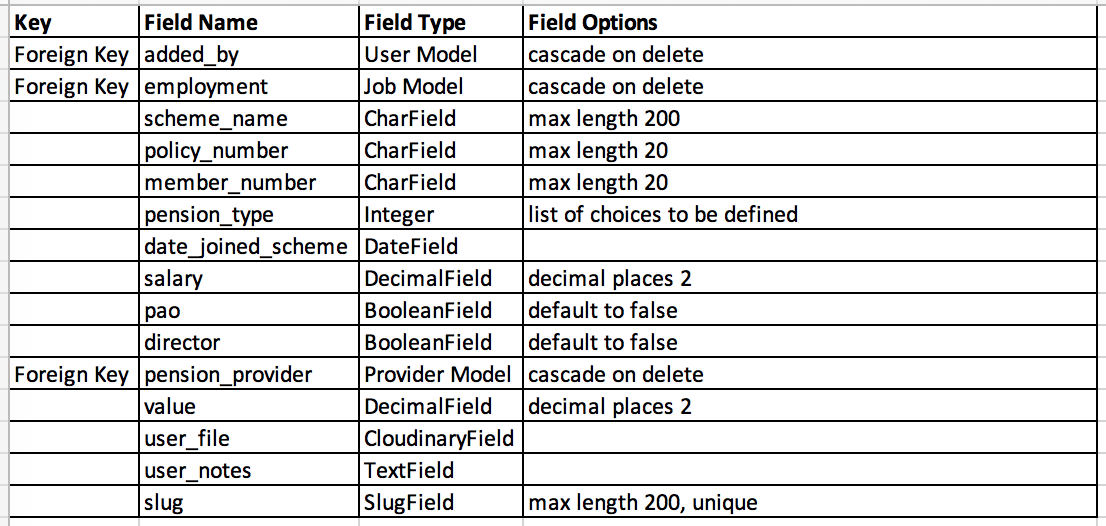
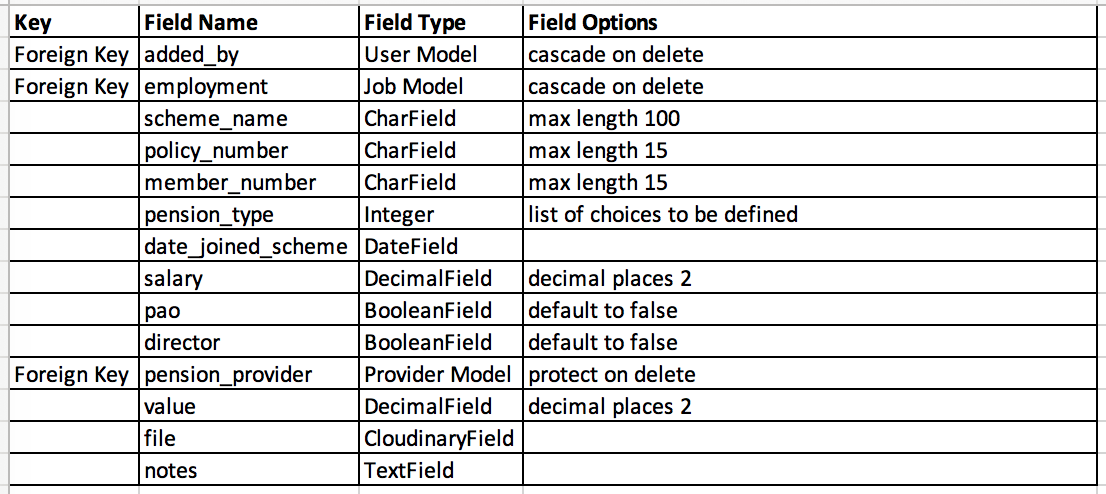
docs: update Database Schema section of README.md and add updated erd .png file, small update to Project structure section

Changed region(s): [[0.0, 0.0, 1.0, 1.0]]

diff --git a/README.md b/README.md
@@ -293,7 +293,7 @@ The content requirements for this project mainly consists of deciding what infor
 
 ### Database Schema
 ---
-The dataset for this project consists of the information entered by each registered user on their employments and attached pensions.
+The dataset for this project consists of the information entered by each registered user on their employments and attached pensions; along with the dataset of the pension providers that is maintained by the website owner.
 
 Some of the factors taken into account when creating the data model:
 - a user can only view details of the Job and Pension records they entered, they cannot view records of other users, therefore:
@@ -302,12 +302,13 @@ Some of the factors taken into account when creating the data model:
 - Each Pension record must have an associated employment/job, and can only be linked to one employment/job in this iteration of the project (later iterations may include functionality to add more than one employment to a pension, see [Future Features](#future-features)). An Employment/Job can be linked to more than one pension
   * Job/Employment is a Foreign Key (one to many relationship) in the Pension model.
 - The Pension records will be displayed as a series of cards in the My Pensions page, with summary details on the card. The user can click on View Details to view the complete details. 
-  * Therefore a slug will be used to generate the url when viewing the full detail of a pension record
+  * The automatically generated id (primary key) will be used to generate the url when viewing the full detail of a pension record
 - The user can upload a file as part of a Pension record. Since the live project will be deployed on Heroku which has ephemeral file storage, these files will be hosted on Cloudinary for persistent file storage
   * CloudinaryField will be used in the Pension model to store the url for the hosted file 
 - Pension provider name will be recorded as part of each Pension record. 
   * To ensure consistency, and to allow the pension provider website to be pre-populated instead of the user having to enter it on the Add Pension form, the list of pension providers and their associated website url will be contained in a separate PensionProvider table managed by the website owner
   * Pension provider name will be a Foreign Key (one to many relationship) in the Pension model
+  * Pension provider records will have a status of Active or Not Active, when adding a new pension record or editing an existing one, only the Active pension providers can be seleted. This to cater for pension providers that cease trading, but the book of business will then go to another provider - it is important for the users to keep up to date with this, so that they know who the current provider is when it comes to taking their benefits. 
 * All custom models will use the Django default primary key of auto-incrementing id
 
 The data is organised using the following models:
@@ -323,17 +324,21 @@ The data is organised using the following models:
   * deleted via the Delete record modal accessed using the Delete button
   * records are viewed on the My Jobs page
   * some details from the employment record are used when viewing the Pension details on My Pensions page
+  * Employer name must be unique for that user (so that it is clear which Employment the user is choosing when they select the Employment from the dropdown list when adding the Pension)
 - Pension
 ![diagram for Pension table](docs/erd/pension.png)
   * records are created, edited and deleted by a registered user from the frontend
   * created via the Add Pension button and form from My Pensions page
   * edited via the Edit Pension form accessed using the Edit button
   * deleted via the Delete record modal accessed using the Delete button
+  * deleting a Job record will delete any attached Pension records
+  * a Pension Provider record can't be deleted if there are Pension records attached
   * records are viewed on the My Pensions page
 - PensionProvider
 ![diagram for PensionProvider table](docs/erd/provider.png)
   * records are created, edited and deleted via the Admin panel by the website owner and cannot be edited by a regular user
   * data in this model is viewed as part of the Pension view
+  * when a user edits or adds a pension, they can select from the active Pension Provider records when choosing the Pension Provider for that pension record.
 
 ## Project structure
 ---
@@ -348,7 +353,7 @@ The project is developed using the Django framework and will be split into three
   * To handle creating, viewing, editing and deleting pensions by a registered user. 
   * This app will use the Pension model described above to hold the pension information created by users
   * This app depends on the Jobs app, as it requires information from the Job model for creating/editing of a pension record and for viewing pension details
-  * This app will also use the PensionProvider model
+  * This app will also use the PensionProvider model. The Provider model is maintained via the Django admin site, by the website owner.
 
 ## Technology
 ---
